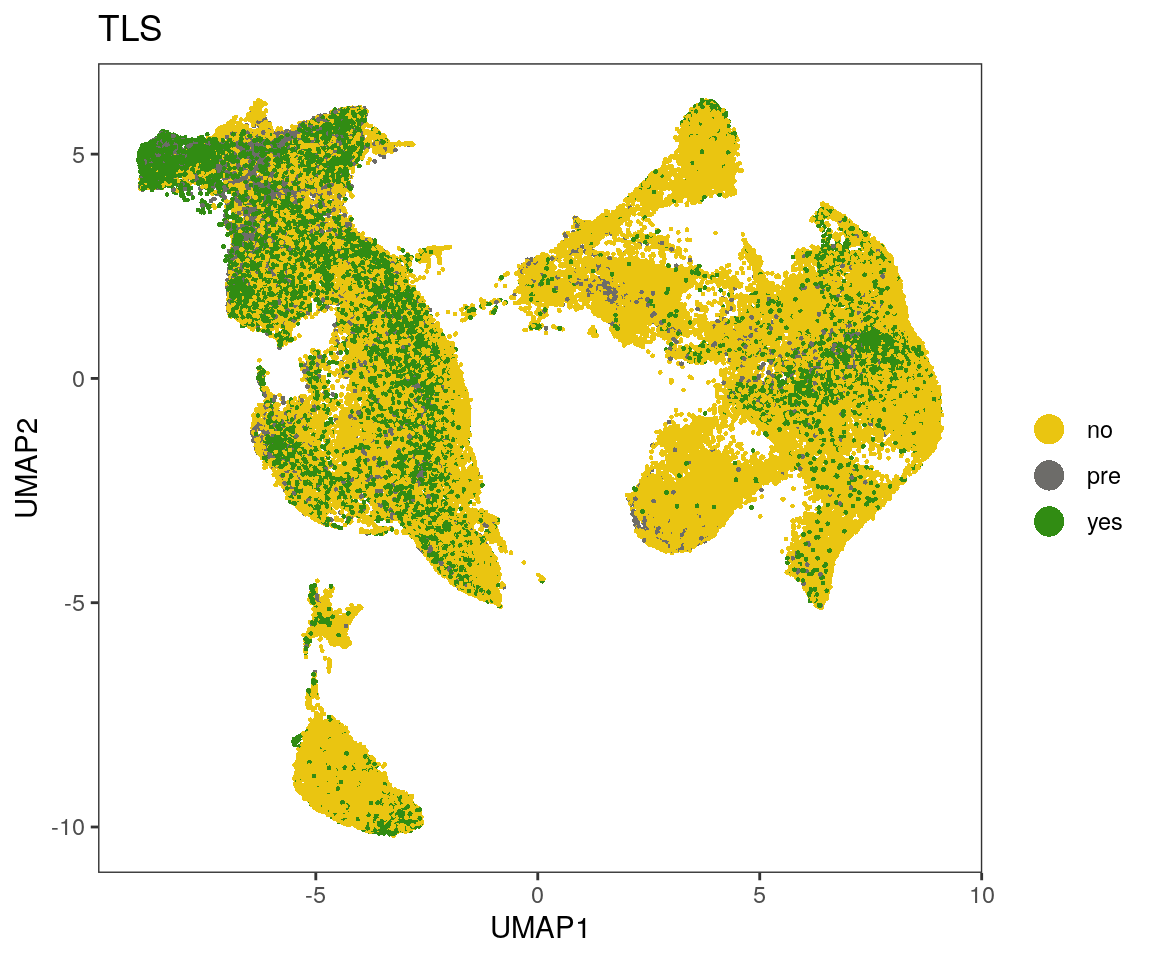
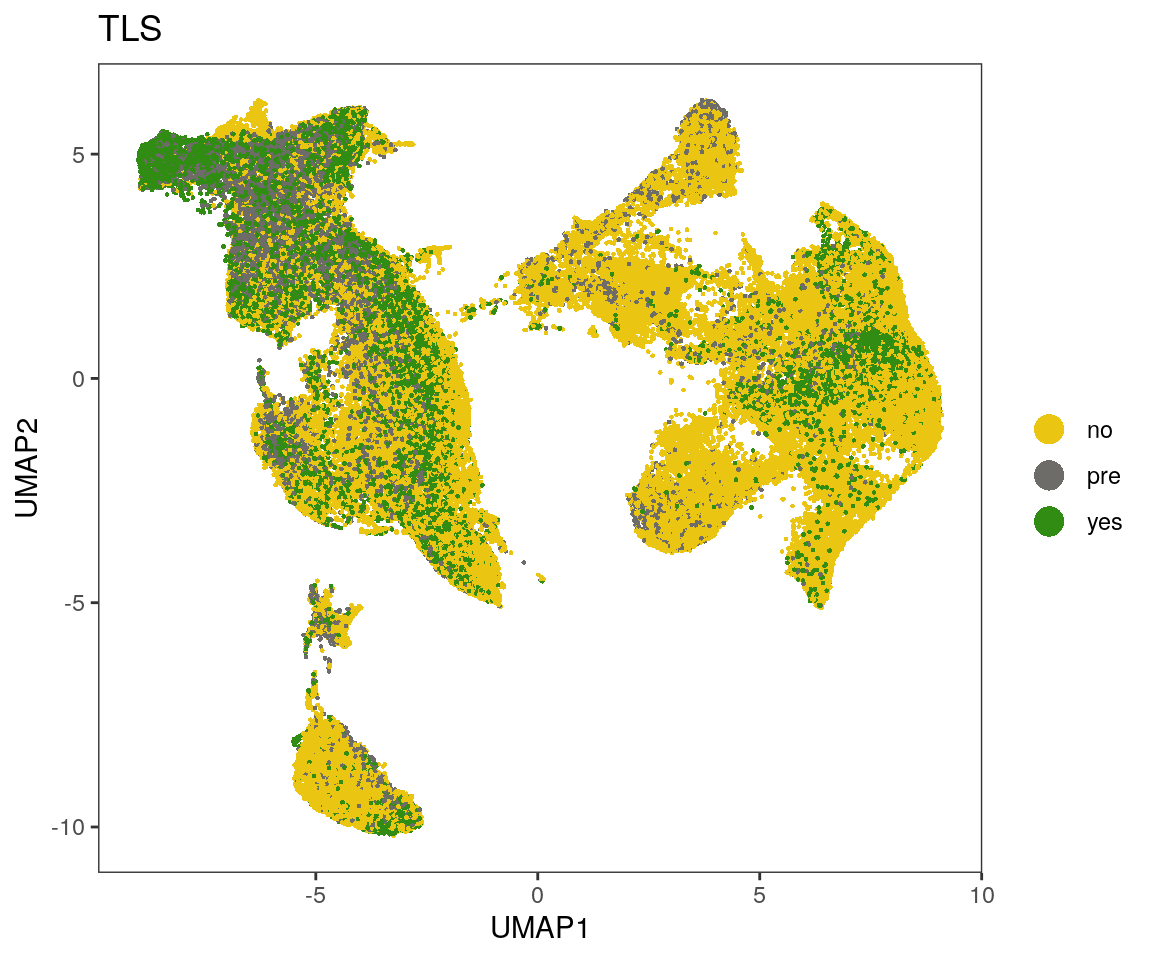
Build site.

diff --git a/docs/05_proteinPanel_StromalSubclustering.html b/docs/05_proteinPanel_StromalSubclustering.html
@@ -413,7 +413,7 @@ div.tocify {
 <div class="tab-content">
 <div id="summary" class="tab-pane fade in active">
 <p>
-<strong>Last updated:</strong> 2020-10-29
+<strong>Last updated:</strong> 2020-11-02
 </p>
 <p>
 <strong>Checks:</strong> <span class="glyphicon glyphicon-ok text-success" aria-hidden="true"></span> 7 <span class="glyphicon glyphicon-exclamation-sign text-danger" aria-hidden="true"></span> 0
@@ -504,16 +504,16 @@ This reproducible <a href="http://rmarkdown.rstudio.com">R Markdown</a> analysis
 <div class="panel panel-default">
 <div class="panel-heading">
 <p class="panel-title">
-<a data-toggle="collapse" data-parent="#workflowr-checks" href="#strongRepositoryversionstrongahrefhttpsgithubcomSandraTietscherBCexhIMCtree05a9ffe6b01a015e7a471281f7d83941005cf015targetblank05a9ffea"> <span class="glyphicon glyphicon-ok text-success" aria-hidden="true"></span> <strong>Repository version:</strong> <a href="https://github.com/SandraTietscher/BCexh_IMC/tree/05a9ffe6b01a015e7a471281f7d83941005cf015" target="_blank">05a9ffe</a> </a>
+<a data-toggle="collapse" data-parent="#workflowr-checks" href="#strongRepositoryversionstrongahrefhttpsgithubcomSandraTietscherBCexhIMCtreecc3a5bc10a0537fb4ec7947fb631a17bab86ef08targetblankcc3a5bca"> <span class="glyphicon glyphicon-ok text-success" aria-hidden="true"></span> <strong>Repository version:</strong> <a href="https://github.com/SandraTietscher/BCexh_IMC/tree/cc3a5bc10a0537fb4ec7947fb631a17bab86ef08" target="_blank">cc3a5bc</a> </a>
 </p>
 </div>
[2 lines of base64/hex data omitted]
 <div class="panel-body">
 <p>
 Great! You are using Git for version control. Tracking code development and connecting the code version to the results is critical for reproducibility.
 </p>
 <p>
-The results in this page were generated with repository version <a href="https://github.com/SandraTietscher/BCexh_IMC/tree/05a9ffe6b01a015e7a471281f7d83941005cf015" target="_blank">05a9ffe</a>. See the <em>Past versions</em> tab to see a history of the changes made to the R Markdown and HTML files.
+The results in this page were generated with repository version <a href="https://github.com/SandraTietscher/BCexh_IMC/tree/cc3a5bc10a0537fb4ec7947fb631a17bab86ef08" target="_blank">cc3a5bc</a>. See the <em>Past versions</em> tab to see a history of the changes made to the R Markdown and HTML files.
 </p>
 <p>
 Note that you need to be careful to ensure that all relevant files for the analysis have been committed to Git prior to generating the results (you can use <code>wflow_publish</code> or <code>wflow_git_commit</code>). workflowr only checks the R Markdown file, but you know if there are other scripts or data files that it depends on. Below is the status of the Git repository when the results were generated:
@@ -523,7 +523,7 @@ Ignored files:
     Ignored:    analysis/.Rhistory
 
 Untracked files:
-    Untracked:  analysis/09_RNApanel_cytokine_expression.Rmd
+    Untracked:  analysis/11_RNApanel_neighbourhood.Rmd
     Untracked:  code/helper_functions/
     Untracked:  data/Ki67_IHC.csv
     Untracked:  data/ProteinPanel_TNK_clusters.csv
@@ -532,18 +532,30 @@ Untracked files:
     Untracked:  data/RNApanel_TNK_clusters.csv
     Untracked:  data/RNApanel_stromal_clusters.csv
     Untracked:  data/RNApanel_tumor_stroma_clusters.csv
+    Untracked:  data/RNAseq_Tcells.rds
     Untracked:  data/RNAseq_celltype_prop.csv
     Untracked:  data/RNAseq_epithelial.rds
     Untracked:  data/ROI_info_HIER.csv
+    Untracked:  data/ROI_info_HIER_TLSrevised.csv
+    Untracked:  data/ROI_info_RNAscope.csv
+    Untracked:  data/ROI_info_RNAscope_TLSrevised.csv
+    Untracked:  data/TLS_scores.csv
     Untracked:  data/cpout/
     Untracked:  data/cytof_celltype_prop.csv
     Untracked:  data/masks/
     Untracked:  output/ProteinPanel/
     Untracked:  output/RNApanel/
+    Untracked:  output/TLS_score_25samples.png
     Untracked:  output/sce_ProteinPanel_afterQC.rds
     Untracked:  output/sce_ProteinPanel_initial.rds
+    Untracked:  output/sce_ProteinPanel_initial_TLSrevised.rds
     Untracked:  output/sce_RNApanel_afterQC.rds
     Untracked:  output/sce_RNApanel_initial.rds
+    Untracked:  output/sce_RNApanel_initial_TLSrevised.rds
+
+Unstaged changes:
+    Modified:   analysis/07_proteinPanel_TNK_analysis.Rmd
+    Modified:   analysis/08_proteinPanel_neighbourhood.Rmd
 
 </code></pre>
 <p>
@@ -582,6 +594,23 @@ Message
 </tr>
 </thead>
 <tbody>
+<tr>
+<td>
+html
+</td>
+<td>
+<a href="https://rawcdn.githack.com/SandraTietscher/BCexh_IMC/200dd71e282355c3da9148b056593e83fa1ae88e/docs/05_proteinPanel_StromalSubclustering.html" target="_blank">200dd71</a>
+</td>
+<td>
+SandraTietscher
+</td>
+<td>
+2020-10-29
+</td>
+<td>
+Build site.
+</td>
+</tr>
 <tr>
 <td>
 Rmd
@@ -1421,6 +1450,43 @@ ggplot(tab, aes(x= TIG, y = proportion, color=TIG))+
   ylab(&quot;Of total [%]&quot;)+
   stat_compare_means(method = &quot;wilcox.test&quot;, aes(label=..p.format..))</code></pre>
 <p><img src="figure/05_proteinPanel_StromalSubclustering.Rmd/celltype-proportions-TIG-boxplot-1.png" width="960" style="display: block; margin: auto;" /></p>
+<p>
+<button type="button" class="btn btn-default btn-xs btn-workflowr btn-workflowr-fig" data-toggle="collapse" data-target="#fig-celltype-proportions-TIG-boxplot-1">
+Past versions of celltype-proportions-TIG-boxplot-1.png
+</button>
+</p>
+<div id="fig-celltype-proportions-TIG-boxplot-1" class="collapse">
+<div class="table-responsive">
+<table class="table table-condensed table-hover">
+<thead>
+<tr>
+<th>
+Version
+</th>
+<th>
+Author
+</th>
+<th>
+Date
+</th>
+</tr>
+</thead>
+<tbody>
+<tr>
+<td>
+<a href="https://github.com/SandraTietscher/BCexh_IMC/blob/200dd71e282355c3da9148b056593e83fa1ae88e/docs/figure/05_proteinPanel_StromalSubclustering.Rmd/celltype-proportions-TIG-boxplot-1.png" target="_blank">200dd71</a>
+</td>
+<td>
+SandraTietscher
+</td>
+<td>
+2020-10-29
+</td>
+</tr>
+</tbody>
+</table>
+</div>
+</div>
 </div>
 </div>
 <div id="save-object" class="section level1">

diff --git a/docs/04_proteinPanel_clustering.html b/docs/04_proteinPanel_clustering.html
@@ -413,7 +413,7 @@ div.tocify {
 <div class="tab-content">
 <div id="summary" class="tab-pane fade in active">
 <p>
-<strong>Last updated:</strong> 2020-10-26
+<strong>Last updated:</strong> 2020-11-02
 </p>
 <p>
 <strong>Checks:</strong> <span class="glyphicon glyphicon-ok text-success" aria-hidden="true"></span> 7 <span class="glyphicon glyphicon-exclamation-sign text-danger" aria-hidden="true"></span> 0
@@ -504,16 +504,16 @@ This reproducible <a href="http://rmarkdown.rstudio.com">R Markdown</a> analysis
 <div class="panel panel-default">
 <div class="panel-heading">
 <p class="panel-title">
-<a data-toggle="collapse" data-parent="#workflowr-checks" href="#strongRepositoryversionstrongahrefhttpsgithubcomSandraTietscherBCexhIMCtree9477c8c5ffcddb2053223d53929b628a4ce82460targetblank9477c8ca"> <span class="glyphicon glyphicon-ok text-success" aria-hidden="true"></span> <strong>Repository version:</strong> <a href="https://github.com/SandraTietscher/BCexh_IMC/tree/9477c8c5ffcddb2053223d53929b628a4ce82460" target="_blank">9477c8c</a> </a>
+<a data-toggle="collapse" data-parent="#workflowr-checks" href="#strongRepositoryversionstrongahrefhttpsgithubcomSandraTietscherBCexhIMCtreecc3a5bc10a0537fb4ec7947fb631a17bab86ef08targetblankcc3a5bca"> <span class="glyphicon glyphicon-ok text-success" aria-hidden="true"></span> <strong>Repository version:</strong> <a href="https://github.com/SandraTietscher/BCexh_IMC/tree/cc3a5bc10a0537fb4ec7947fb631a17bab86ef08" target="_blank">cc3a5bc</a> </a>
 </p>
 </div>
[2 lines of base64/hex data omitted]
 <div class="panel-body">
 <p>
 Great! You are using Git for version control. Tracking code development and connecting the code version to the results is critical for reproducibility.
 </p>
 <p>
-The results in this page were generated with repository version <a href="https://github.com/SandraTietscher/BCexh_IMC/tree/9477c8c5ffcddb2053223d53929b628a4ce82460" target="_blank">9477c8c</a>. See the <em>Past versions</em> tab to see a history of the changes made to the R Markdown and HTML files.
+The results in this page were generated with repository version <a href="https://github.com/SandraTietscher/BCexh_IMC/tree/cc3a5bc10a0537fb4ec7947fb631a17bab86ef08" target="_blank">cc3a5bc</a>. See the <em>Past versions</em> tab to see a history of the changes made to the R Markdown and HTML files.
 </p>
 <p>
 Note that you need to be careful to ensure that all relevant files for the analysis have been committed to Git prior to generating the results (you can use <code>wflow_publish</code> or <code>wflow_git_commit</code>). workflowr only checks the R Markdown file, but you know if there are other scripts or data files that it depends on. Below is the status of the Git repository when the results were generated:
@@ -523,25 +523,39 @@ Ignored files:
     Ignored:    analysis/.Rhistory
 
 Untracked files:
+    Untracked:  analysis/11_RNApanel_neighbourhood.Rmd
+    Untracked:  code/helper_functions/
     Untracked:  data/Ki67_IHC.csv
+    Untracked:  data/ProteinPanel_TNK_clusters.csv
     Untracked:  data/ProteinPanel_stromal_clusters.csv
     Untracked:  data/ProteinPanel_tumor_stroma_clusters.csv
     Untracked:  data/RNApanel_TNK_clusters.csv
     Untracked:  data/RNApanel_stromal_clusters.csv
     Untracked:  data/RNApanel_tumor_stroma_clusters.csv
+    Untracked:  data/RNAseq_Tcells.rds
     Untracked:  data/RNAseq_celltype_prop.csv
     Untracked:  data/RNAseq_epithelial.rds
+    Untracked:  data/ROI_info_HIER.csv
+    Untracked:  data/ROI_info_HIER_TLSrevised.csv
+    Untracked:  data/ROI_info_RNAscope.csv
+    Untracked:  data/ROI_info_RNAscope_TLSrevised.csv
+    Untracked:  data/TLS_scores.csv
+    Untracked:  data/cpout/
     Untracked:  data/cytof_celltype_prop.csv
     Untracked:  data/masks/
     Untracked:  output/ProteinPanel/
     Untracked:  output/RNApanel/
+    Untracked:  output/TLS_score_25samples.png
     Untracked:  output/sce_ProteinPanel_afterQC.rds
     Untracked:  output/sce_ProteinPanel_initial.rds
+    Untracked:  output/sce_ProteinPanel_initial_TLSrevised.rds
     Untracked:  output/sce_RNApanel_afterQC.rds
     Untracked:  output/sce_RNApanel_initial.rds
+    Untracked:  output/sce_RNApanel_initial_TLSrevised.rds
 
 Unstaged changes:
-    Modified:   analysis/06_proteinPanel_tumor_analysis.Rmd
+    Modified:   analysis/07_proteinPanel_TNK_analysis.Rmd
+    Modified:   analysis/08_proteinPanel_neighbourhood.Rmd
 
 </code></pre>
 <p>
@@ -580,6 +594,23 @@ Message
 </tr>
 </thead>
 <tbody>
+<tr>
+<td>
+html
+</td>
+<td>
+<a href="https://rawcdn.githack.com/SandraTietscher/BCexh_IMC/4b8f1319a860d74c90b9d92f70f561c1936ea9fb/docs/04_proteinPanel_clustering.html" target="_blank">4b8f131</a>
+</td>
+<td>
+SandraTietscher
+</td>
+<td>
+2020-10-26
+</td>
+<td>
+Build site.
+</td>
+</tr>
 <tr>
 <td>
 Rmd
